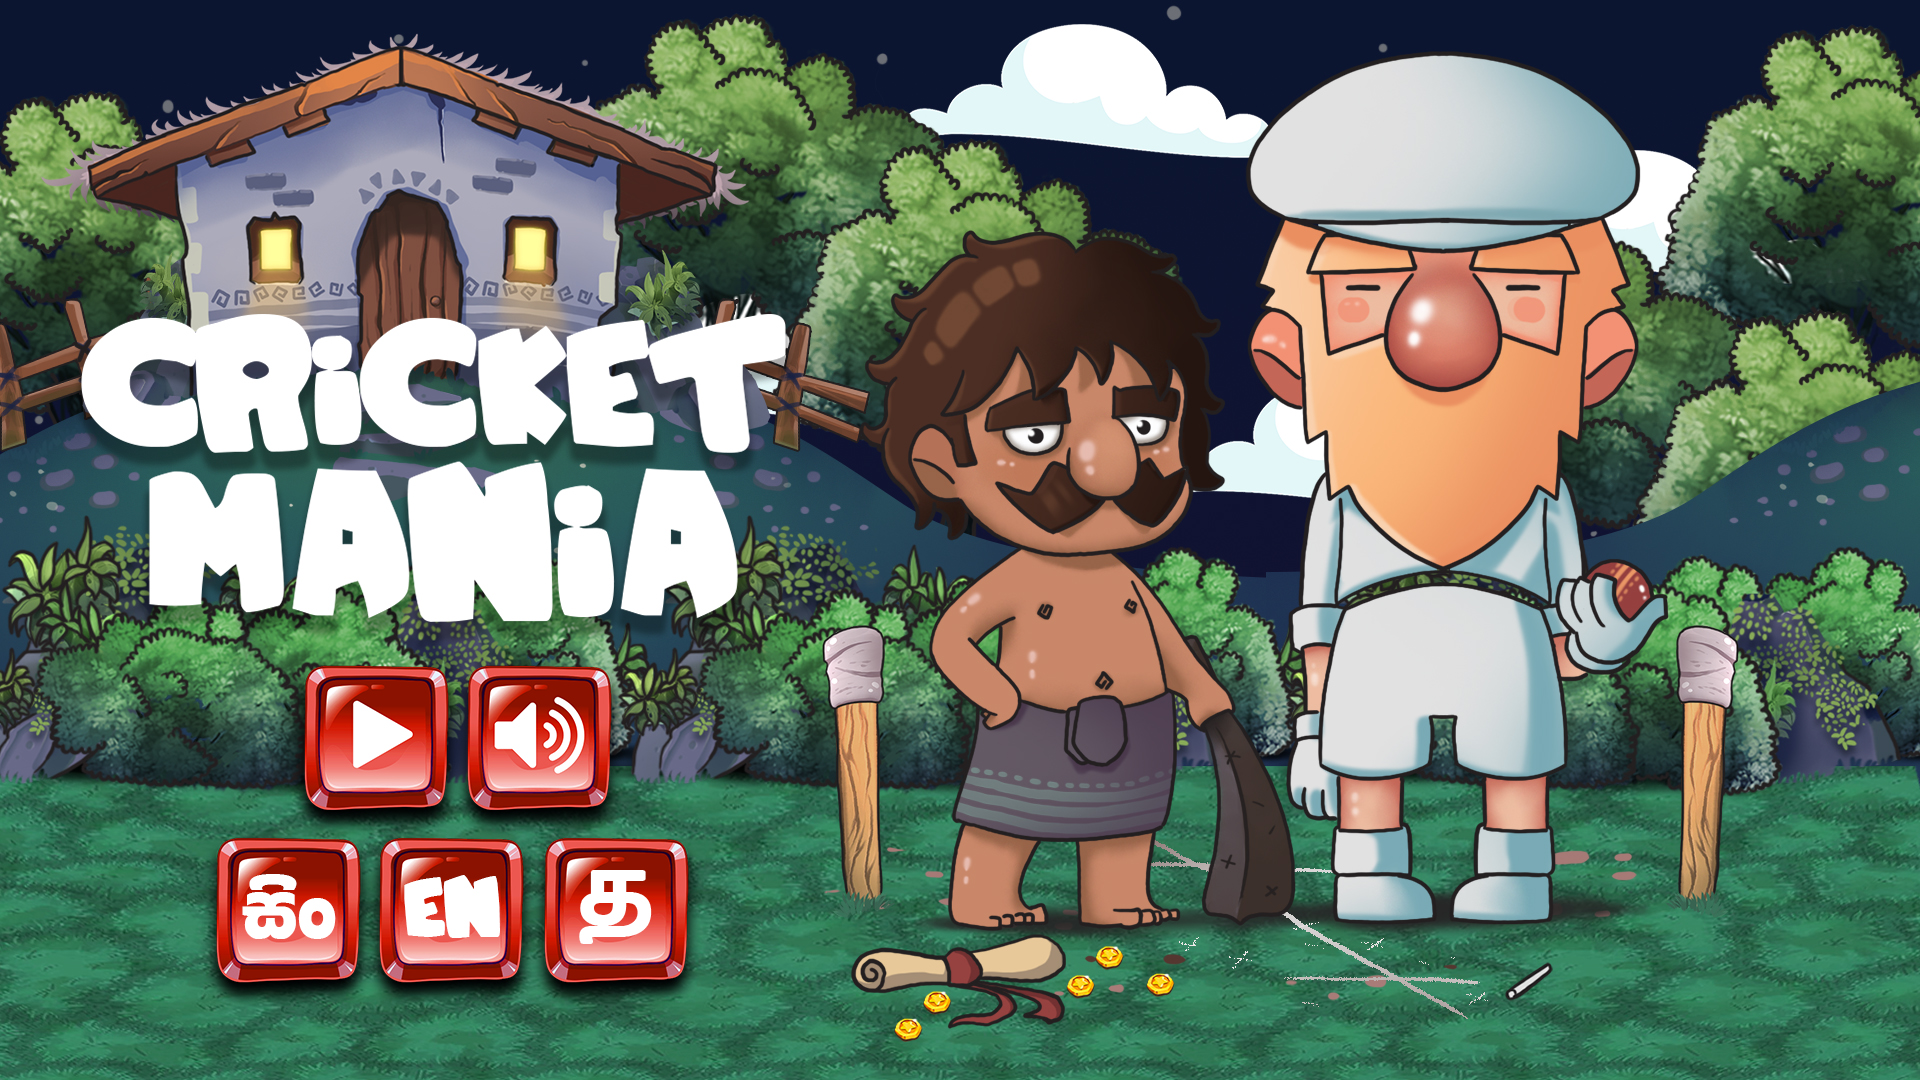
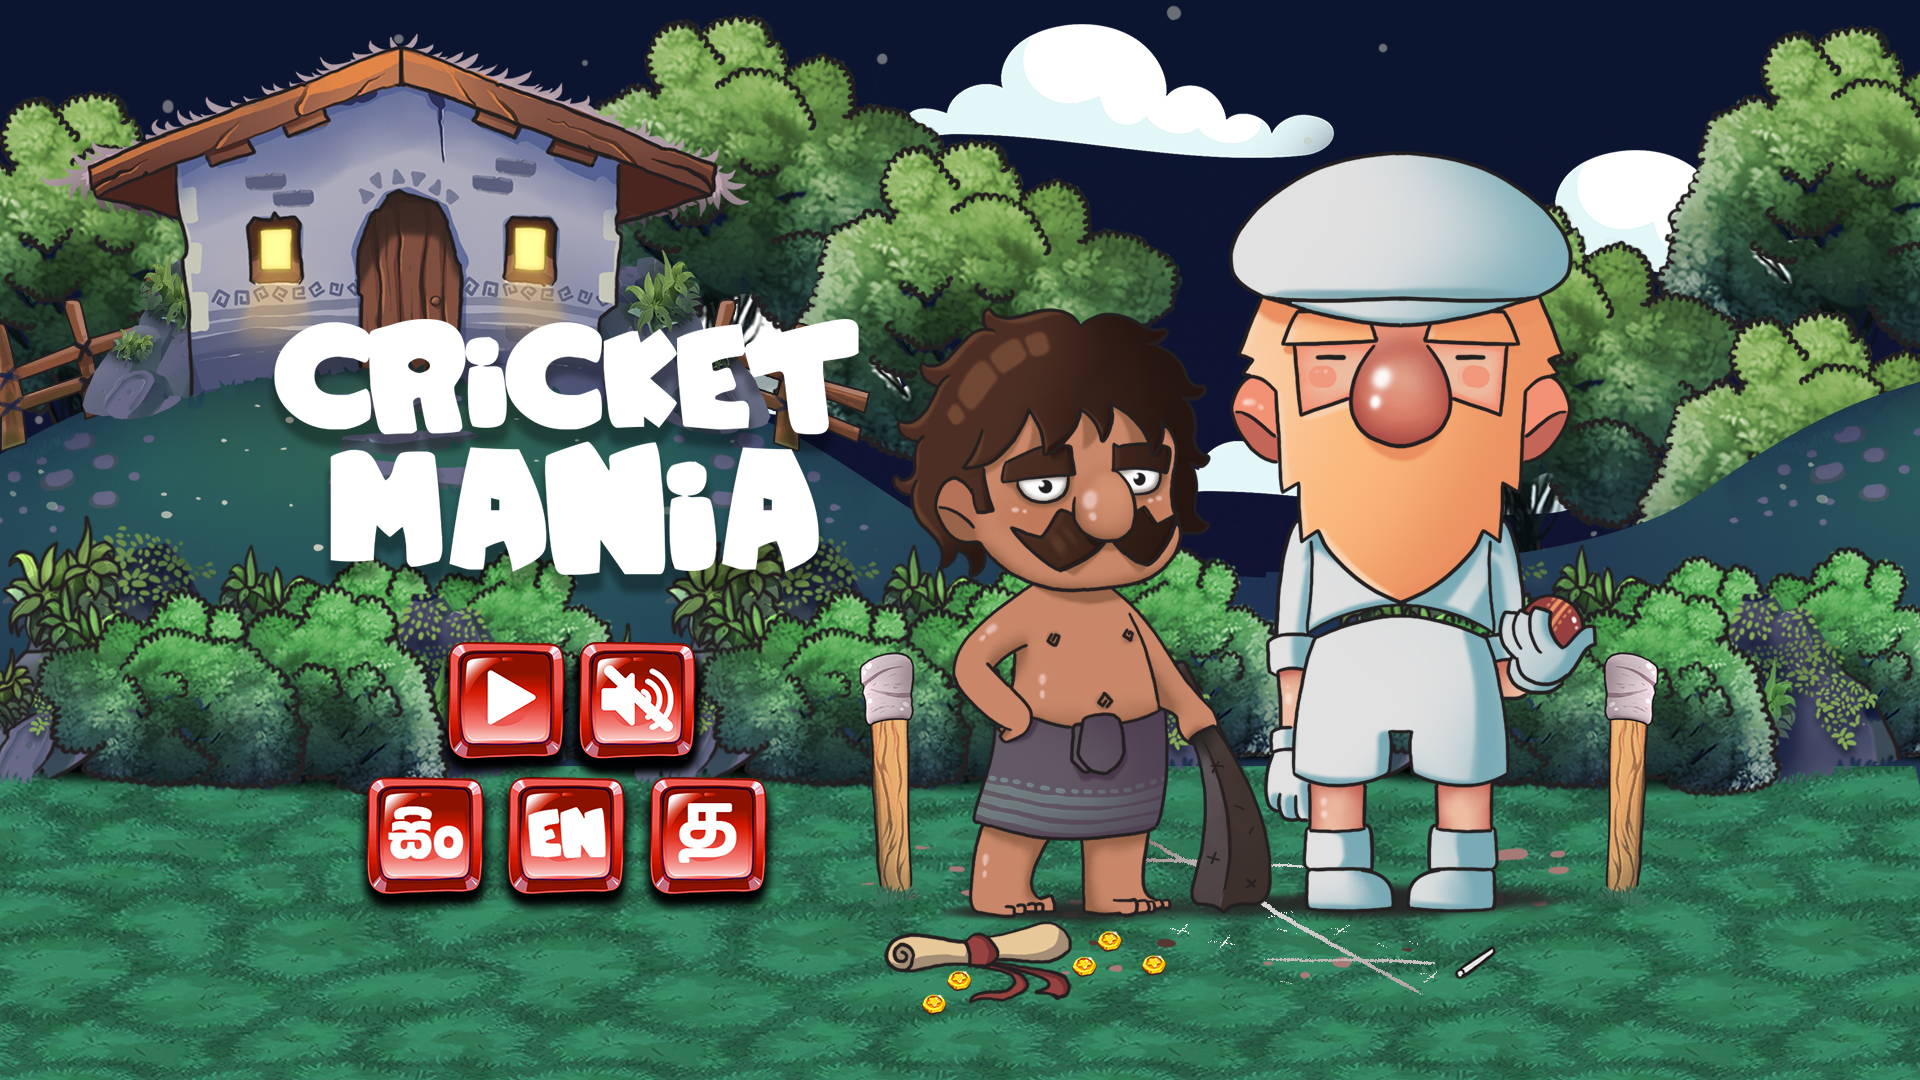
Three.js cricket game ui recap

diff --git a/Cricket/Scripts/Main.js b/Cricket/Scripts/Main.js
@@ -606,6 +606,8 @@ window.addEventListener( 'resize', function()
 	camera.updateProjectionMatrix();
 	renderer.setSize(width,height);
 	
+	console.log(width + " " + height);
+	
 });
 
 var setUISizes = function()
@@ -613,19 +615,36 @@ var setUISizes = function()
 	var width = window.innerWidth;
 	var height = window.innerHeight;
 	
-	console.log(width);
-	backgroundSprite.scale.set(19.20 * 1.6,10.80 * 1.6,1);
+	backgroundSprite.scale.set(19.20 * 1.65,10.80 * 1.65,1);
 	
-	playButton.scale.set(2.5,2.5,1);
-	soundBuuton.scale.set(2.5,2.5,1);
-	sinhalaBuuton.scale.set(2.5,2.5,1);
-	englishBuuton.scale.set(2.5,2.5,1);
-	tamilBuuton.scale.set(2.5,2.5,1);
+	playButton.scale.set(2.1,2.1,1);
+	soundBuuton.scale.set(2.1,2.1,1);
+	sinhalaBuuton.scale.set(2.1,2.1,1);
+	englishBuuton.scale.set(2.1,2.1,1);
+	tamilBuuton.scale.set(2.1,2.1,1);
 	
-	playButton.position.x = -(width/height) * 4;
-	soundBuuton.position.x = -(width/height) * 2.8;
-	playButton.position.y = -3;
-	soundBuuton.position.y = -3;
+	// var a = 1920/1080;
+	// if(a > width/height)
+	// {
+		// sinhalaBuuton.position.x = -(width/height) * 3.65;
+		// englishBuuton.position.x = sinhalaBuuton.position.x + sinhalaBuuton.scale.x/2 + 1;
+		// tamilBuuton.position.x = englishBuuton.position.x + englishBuuton.scale.x/2 + 1;
+		// playButton.position.x = -(width/height) * 3.1;
+		// soundBuuton.position.x = playButton.position.x + playButton.scale.x/2 + 0.9;
+	// }
+	// else
+	// {
+		playButton.position.x = backgroundSprite.position.x - backgroundSprite.scale.x/2 + 9.2;
+		soundBuuton.position.x = backgroundSprite.position.x - backgroundSprite.scale.x/2 + 19.6;
+		sinhalaBuuton.position.x = backgroundSprite.position.x - backgroundSprite.scale.x/2 + 8.85;
+		englishBuuton.position.x = backgroundSprite.position.x - backgroundSprite.scale.x/2 + 8.3;
+		tamilBuuton.position.x = backgroundSprite.position.x - backgroundSprite.scale.x/2 + 10.75;
+	// }
+	
+	//playButton.position.x = -(width/height) * 4;
+	//soundBuuton.position.x = -(width/height) * 2.8;
+	playButton.position.y = -2.5;
+	soundBuuton.position.y = -2.5;
 	
 	ballT[0].position.x = camBox.position.x - width/148;
 	ballT[1].position.x = camBox.position.x - width/160;
@@ -651,19 +670,14 @@ var setUISizes = function()
 	scoreT[1].scale.y = height/1350;
 	scoreT[2].scale.y = height/1350;
 	
-	sinhalaBuuton.position.x = -(width/height) * 4.6;
-	sinhalaBuuton.position.y = -5.5;
+	sinhalaBuuton.position.y = -4.5;
+	englishBuuton.position.y = -4.5;
+	tamilBuuton.position.y = -4.5;
 	
-	englishBuuton.position.x = -(width/height) * 3.4;
-	englishBuuton.position.y = -5.5;
-	
-	tamilBuuton.position.x = -(width/height) * 2.2;
-	tamilBuuton.position.y = -5.5;
-	
-	gameName.scale.x = 8.79 * 1.4;
-	gameName.scale.y = 4.92 * 1.4;
-	gameName.position.x = -7.5;
-	gameName.position.y = 1;
+	gameName.scale.x = 8.79 * 1.2;
+	gameName.scale.y = 4.92 * 1.2;
+	gameName.position.x = -5.7;
+	gameName.position.y = 1.35;
 };
 
 var init = function()
@@ -843,7 +857,7 @@ var initUI = function()
 {
 	uiGroup = new THREE.Group();
 	
-	var spriteMap = new THREE.TextureLoader().load( "UI/menu2.jpg" );
+	var spriteMap = new THREE.TextureLoader().load( "UI/menu.jpg" );
 	spriteMap.minFilter = THREE.minFilter;
 	var spriteMaterial = new THREE.SpriteMaterial( { map: spriteMap, color: 0xffffff } );
 	backgroundSprite = new THREE.Sprite( spriteMaterial );
